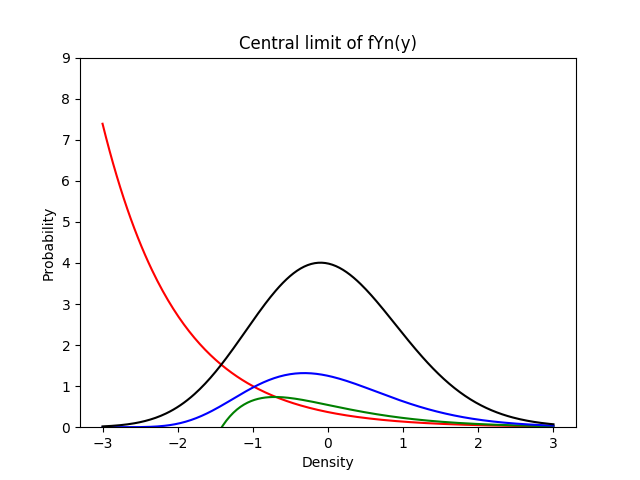
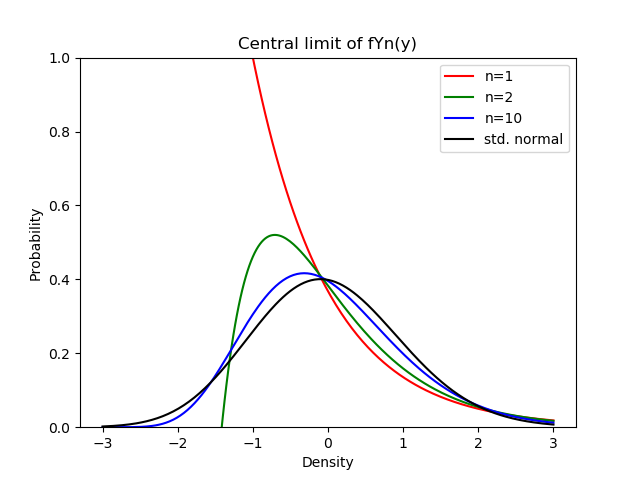
1.4 Central Limit Code

diff --git a/Case Study 2/EX1.4.py b/Case Study 2/EX1.4.py
@@ -1,29 +1,26 @@
-import matplotlib
 from matplotlib import pyplot as plt
 import numpy as np
-import scipy as sp
-import scipy.misc as spm
 import math
-from matplotlib import style
-import csv
 
 # Configuration Variables
-n = [1,2,10,100]
+n = [1, 2, 10, 100]
 ncolor = ["red", "green", "blue", "black"]
+nlabel = ["n=1", "n=2", "n=10", "std. normal"]
+
 # Std. Normal
 mu = 0
 variance = 1
 sigma = math.sqrt(variance)
 
 # Actual Plotting
-X = np.linspace(mu - (3*sigma), mu + (3*sigma), 256, endpoint=True)
-
+Xv = np.linspace(mu - (3.0 * sigma), mu + (3.0 * sigma), 256, endpoint=True)
 for i in range(0, len(n)):
-    yn = n[i]**(n[i]-1 /2)/spm.factorial(n[i]-1)*(1+X/n[i]**.5)**(n[i]-1)*np.exp(-n[i]*(1+X/n[i]**.5))
-    plt.plot(X, yn, color=ncolor[i])
-    print n[i]
+    plt.plot(Xv, (n[i]**(n[i]-0.5))/(math.factorial(n[i]-1)) *
+             (1 + Xv/np.sqrt(n[i]))**(n[i]-1) * np.exp(-n[i]*(1+Xv/math.sqrt(n[i]))), color=ncolor[i], label='test')
 
-plt.ylim(0,9)
+# Formatting
+plt.legend(nlabel)
+plt.ylim(0, 1)
 plt.title('Central limit of fYn(y)')
 plt.ylabel('Probability')
 plt.xlabel('Density')
